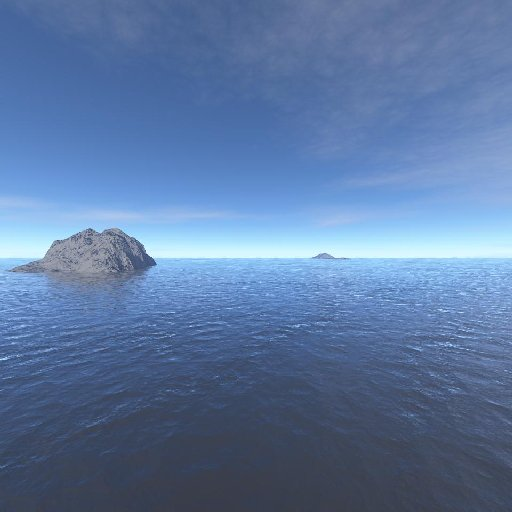
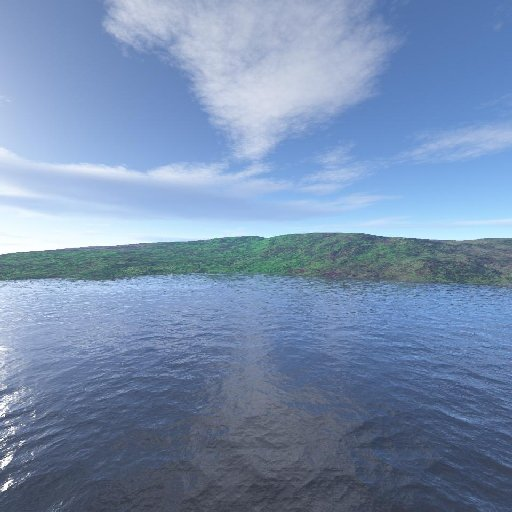
skybox with camera animation
added a new set of skybox images

diff --git a/waterSurfaceTest-Arch/proj3_webgl.js b/waterSurfaceTest-Arch/proj3_webgl.js
@@ -384,8 +384,17 @@ function drawSkybox() {
     mat4.perspective(50, gl.viewportWidth / gl.viewportHeight, 0.1, 100.0, pMatrix);
     mat4.identity(mvMatrix);
 
-    //mat4.translate(mvMatrix, [2.0, 5.0, 0.0]);
-    //mat4.rotate(mvMatrix, degToRad(90), [0, 1, 0]);
+    mvPushMatrix();
+    mat4.translate(mvMatrix, [0.0, -0.1, -2.0]);
+    
+    
+    mat4.rotateX(mvMatrix, 0.2);
+    
+    //cam animation
+    
+    mat4.rotateY(mvMatrix, rotY);
+    mat4.translate(mvMatrix, transVec);
+    
     gl.bindBuffer(gl.ARRAY_BUFFER, cubeVertexPositionBuffer);
     gl.vertexAttribPointer(skyboxShaderProgram.vertexPositionAttribute, cubeVertexPositionBuffer.itemSize, gl.FLOAT, false, 0, 0);
 
